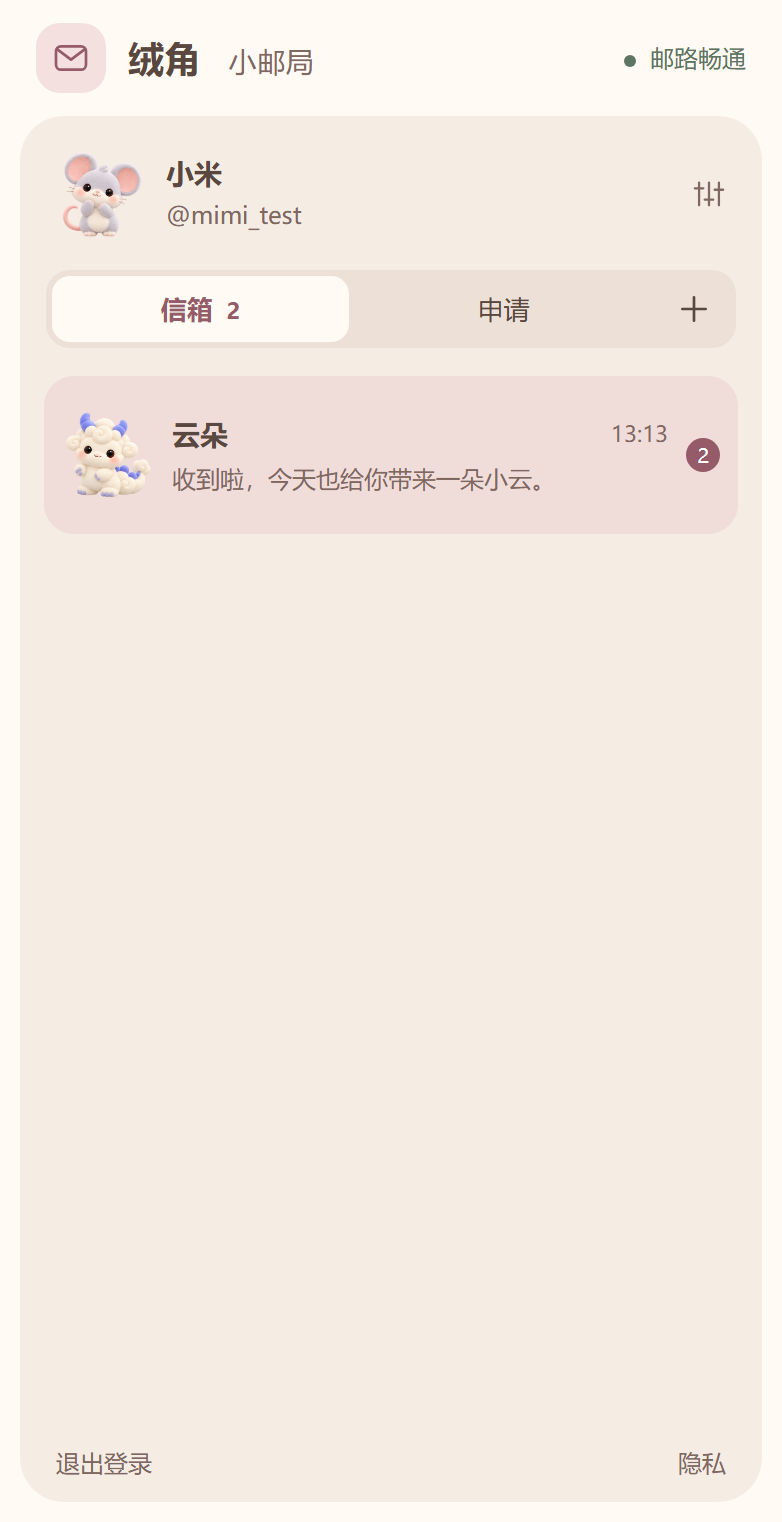
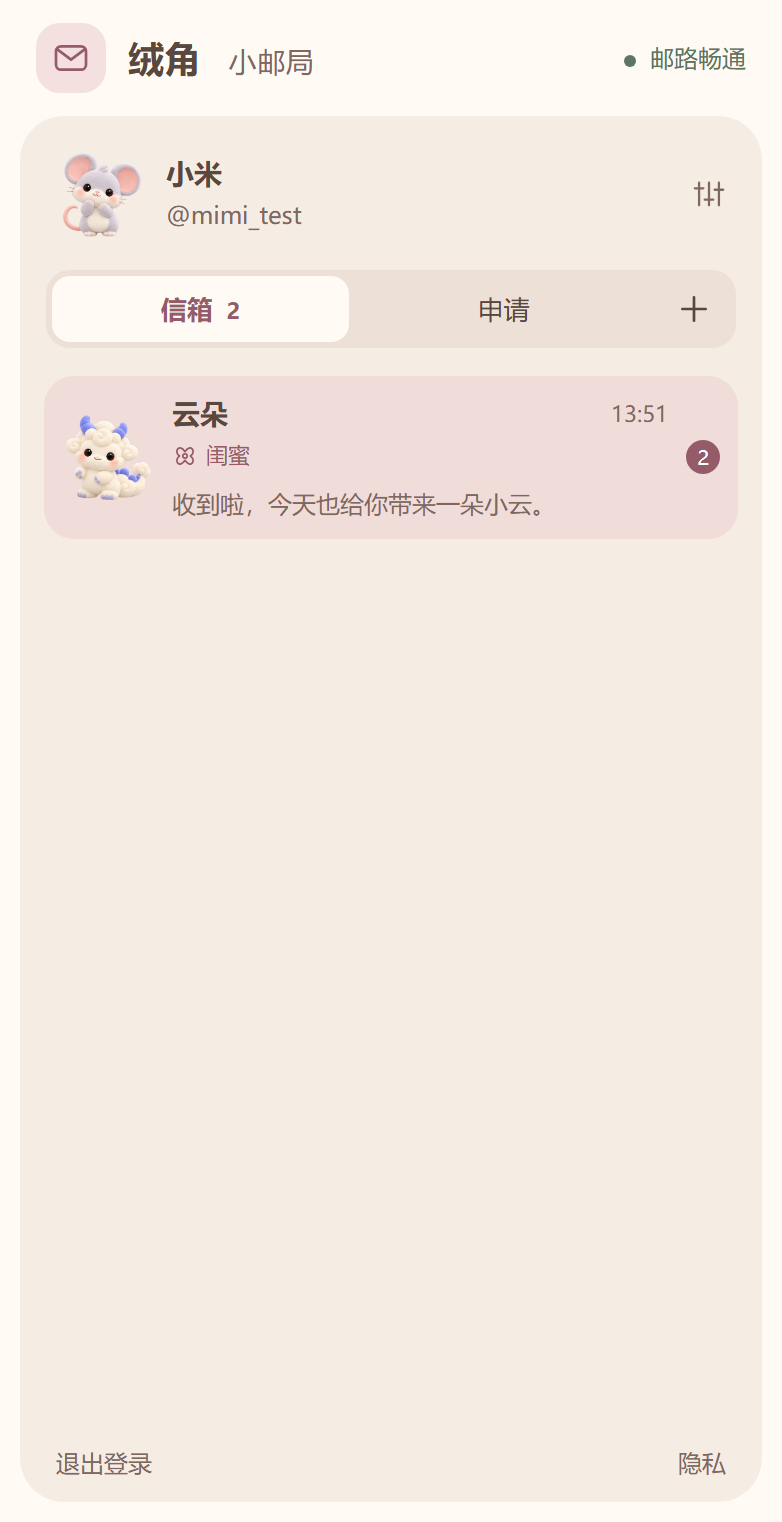
Add mutual relationship badges and companion cards

diff --git a/ui/postoffice.html b/ui/postoffice.html
@@ -17,12 +17,21 @@
  <div id="people-list" class="people-list" aria-live="polite"></div><p id="people-error" class="form-message" role="status" hidden></p>
  <div class="people-foot"><button id="logout" type="button">退出登录</button><a href="/privacy" target="_blank" rel="noopener">隐私</a></div></aside>
  <section class="letter-pane"><div id="empty-chat" class="empty-chat"><div id="empty-art"></div><h2>寄一封小小的信</h2><p>和好友聊两句，也可以送一颗心。</p><button class="soft-button" id="empty-find" type="button">找朋友</button></div>
- <div id="conversation" class="conversation" hidden><header class="chat-header"><button id="back-list" class="icon-button" type="button" aria-label="返回信箱" data-icon="back"></button><span id="peer-avatar"></span><div class="peer-title"><h2 id="peer-name"></h2><span id="peer-status"></span></div><button id="chat-more" class="icon-button" type="button" aria-label="好友操作" aria-expanded="false" data-icon="more"></button><div id="chat-menu" class="chat-menu" hidden><button id="report-peer" type="button">举报</button><button id="block-peer" type="button">屏蔽此人</button><button id="remove-peer" type="button">删除好友</button></div></header>
+ <div id="conversation" class="conversation" hidden><header class="chat-header"><button id="back-list" class="icon-button" type="button" aria-label="返回信箱" data-icon="back"></button><span id="peer-avatar"></span><div class="peer-title"><h2 id="peer-name"></h2><span id="peer-status"></span></div><button id="relationship-open" class="relationship-open" type="button" hidden>绑定关系</button><button id="chat-more" class="icon-button" type="button" aria-label="好友操作" aria-expanded="false" data-icon="more"></button><div id="chat-menu" class="chat-menu" hidden><button id="report-peer" type="button">举报</button><button id="block-peer" type="button">屏蔽此人</button><button id="remove-peer" type="button">删除好友</button></div></header>
  <div class="chat-scroll" id="chat-scroll"><button id="load-older" class="load-older" type="button" hidden>看看更早的来信</button><div id="messages" role="log" aria-live="polite" aria-label="聊天记录"></div><p id="history-empty" class="history-empty" hidden>第一句，就从“你好”开始。</p></div><button id="new-mail" class="new-mail" type="button" hidden>新来信 ↓</button>
  <form id="composer" class="composer"><div class="gesture-actions"><button type="button" data-gesture="heart"><span data-icon="heart"></span>送颗心</button><button type="button" data-gesture="pat"><span data-icon="paw"></span>摸摸头</button></div><label class="sr-only" for="message-text">写给好友的信</label><textarea id="message-text" maxlength="1000" rows="2" placeholder="写点什么…"></textarea><div class="composer-foot"><p id="chat-error" class="form-message" role="status" hidden></p><span id="message-count" hidden></span><button id="send-message" class="primary" disabled type="submit">寄出去 <span data-icon="send"></span></button></div></form>
  </div></section>
 </main>
 <dialog id="profile-dialog" class="post-dialog"><form id="profile-form"><header><h2>我的小名片</h2><button class="icon-button" type="button" data-close="profile-dialog" aria-label="关闭" data-icon="close"></button></header><p id="profile-handle" class="profile-handle"></p><label for="profile-name">昵称</label><input id="profile-name" maxlength="20" required><label>我的伙伴</label><div id="profile-pets" class="profile-pets" role="group" aria-label="选择伙伴"></div><label class="check-label"><input id="profile-discoverable" type="checkbox">允许别人通过绒角号找到我</label><p id="profile-error" role="status" class="form-message" hidden></p><button type="submit" class="primary">保存名片</button></form><details><summary>账号与隐私</summary><div id="blocked-users"></div><button id="export-data" type="button" class="text-button">下载我的数据</button><button id="delete-account" type="button" class="danger text-button">注销账号</button></details></dialog>
+<dialog id="relationship-dialog" class="post-dialog relationship-dialog" aria-labelledby="relationship-title">
+ <header><h2 id="relationship-title">我们的关系</h2><button type="button" class="icon-button" data-close="relationship-dialog" aria-label="关闭" data-icon="close"></button></header>
+ <div class="relationship-keepsake"><div id="relationship-pair" class="relationship-pair"></div><h3 id="relationship-status"></h3><p id="relationship-note"></p><small id="relationship-existing" hidden></small></div>
+ <div id="relationship-choices" class="relationship-choices" role="group" aria-label="选择关系"></div>
+ <div id="relationship-roles" class="relationship-roles" hidden><span>我是</span><div id="relationship-role-options" role="group" aria-label="你在关系中的身份"></div></div>
+ <p id="relationship-error" role="status" class="form-message" hidden></p>
+ <div class="relationship-actions"><button id="relationship-submit" class="primary" type="button">发起绑定</button><button id="relationship-decline" class="soft-button" type="button" hidden>暂不接受</button><button id="relationship-accept" class="primary" type="button" hidden>确认绑定</button><button id="relationship-cancel" class="soft-button" type="button" hidden>撤回邀请</button></div>
+ <button id="relationship-remove" class="text-button danger relationship-remove" type="button" hidden>解除绑定</button>
+</dialog>
 <dialog id="confirm-dialog" class="post-dialog compact-dialog"><form id="confirm-form"><header><h2 id="confirm-title"></h2><button type="button" class="icon-button" data-close="confirm-dialog" aria-label="关闭" data-icon="close"></button></header><p id="confirm-copy"></p><label id="confirm-password-label" hidden>登录密码<input id="confirm-password" type="password" autocomplete="current-password"></label><p id="confirm-error" role="status" class="form-message" hidden></p><div class="dialog-actions"><button type="button" data-close="confirm-dialog" class="soft-button">再想想</button><button id="confirm-submit" type="submit" class="primary">确认</button></div></form></dialog>
 <dialog id="report-dialog" class="post-dialog compact-dialog"><form id="report-form"><header><h2>告诉小邮局</h2><button type="button" class="icon-button" data-close="report-dialog" aria-label="关闭" data-icon="close"></button></header><blockquote id="report-quote"></blockquote><label for="report-reason">发生了什么</label><textarea id="report-reason" maxlength="500" rows="4" required placeholder="骚扰、诈骗或其他问题"></textarea><label class="check-label"><input id="report-block" type="checkbox" checked>同时屏蔽这位用户</label><p id="report-error" role="status" class="form-message" hidden></p><button type="submit" class="primary">提交举报</button></form></dialog>
 <p id="toast" class="toast" role="status" hidden></p>

diff --git a/ui/postoffice.css b/ui/postoffice.css
@@ -7,3 +7,9 @@
 .post-dialog{border:0;border-radius:24px;background:var(--paper);color:inherit;padding:24px;width:min(440px,calc(100vw - 32px));max-height:90dvh;box-shadow:0 15px 50px #604b4525}.post-dialog::backdrop{background:#493c3540}.post-dialog header{display:flex;align-items:center;justify-content:space-between;margin-bottom:17px}.post-dialog h2{font-size:21px}.post-dialog input:not([type=checkbox]),.post-dialog textarea{margin-bottom:16px}.profile-handle{overflow-wrap:anywhere;font-size:13px;color:var(--muted);margin:0 0 20px}.profile-pets{display:grid;grid-template-columns:repeat(6,1fr);gap:6px;margin:0 0 18px}.profile-pets button{padding:3px;border-radius:12px;background:#f3e9df;min-height:52px}.profile-pets button[aria-pressed=true]{background:#eacbce;outline:1px solid #b8858d}.post-dialog details{font-size:13px;color:var(--muted);margin-top:22px}.post-dialog summary{cursor:pointer}.text-button{padding:9px 0;color:var(--muted);font-size:12px;margin-right:18px}.danger{color:#a14c48}.blocked-row{display:flex;justify-content:space-between;gap:8px;align-items:center;padding:8px 0;font-size:12px}.blocked-row button{color:var(--rose);font-size:12px}.compact-dialog{width:min(380px,calc(100vw - 32px))}.compact-dialog p{font-size:13px;color:var(--muted);line-height:1.7;margin-bottom:15px}.dialog-actions{display:flex;justify-content:flex-end;gap:8px;margin-top:24px}#report-quote{font-size:12px;line-height:1.6;background:#f1e4d9;padding:12px;margin:0 0 18px;border-radius:10px;max-height:90px;overflow:auto;white-space:pre-wrap;overflow-wrap:anywhere}.toast{position:fixed;z-index:50;bottom:24px;left:50%;transform:translateX(-50%);padding:11px 20px;border-radius:14px;background:#665048;color:#fffaf4;font-size:13px;box-shadow:0 5px 18px #59484018;max-width:90vw}.legal{max-width:760px;margin:28px auto 70px;padding:0 24px;font-size:14px;line-height:1.9}.legal h2{margin:28px 0 12px;font-size:20px}.legal p{margin:12px 0}
 @keyframes small-heart{0%,100%{transform:scale(1)}40%{transform:scale(1.12)}}@media(prefers-reduced-motion:reduce){*,*::before,*::after{animation:none!important;transition:none!important}}
 @media(max-width:750px){.post-header{height:58px;padding:0 18px}.auth-main{min-height:calc(100dvh - 58px);grid-template-columns:1fr;padding:20px 28px 35px;gap:16px;align-content:center}.auth-art{display:flex;min-height:0;height:112px;background:none;border-radius:0}.auth-art .postman-art{height:112px}.auth-art .pet-avatar{width:112px;height:112px}.auth-hello{display:none}.auth-panel{max-width:380px}.postoffice{height:calc(100dvh - 58px);grid-template-columns:1fr;padding:0 10px 10px;gap:0}.people-pane{width:100%}.letter-pane{display:none}.postoffice[data-conversation=true] .people-pane{display:none}.postoffice[data-conversation=true] .letter-pane{display:flex}#back-list{display:grid}.chat-header{padding:12px 14px;min-height:70px}.chat-scroll{padding:16px 12px}.composer{padding:10px 13px 12px}.message{max-width:94%}.post-header h1{font-size:18px}.post-header h1 span{font-size:14px}.person-row{min-height:79px}.profile-pets{grid-template-columns:repeat(6,1fr)}}
+
+.relation-badge{display:inline-flex;align-items:center;gap:4px;color:var(--rose);font-size:11px;line-height:1.5}.relation-badge .post-icon{width:13px;height:13px}.person-summary>.relation-badge{margin-top:4px}.relation-badge.pending{color:var(--muted)}.relationship-open{display:inline-flex;align-items:center;gap:5px;flex:none;border:1px solid #e8cdd0;background:#f5e3e3;padding:7px 10px;border-radius:20px;color:#87515e;font-size:12px}.relationship-open>.post-icon{width:15px;height:15px}.relationship-open .relation-badge{font-size:12px}.relationship-open:hover{background:#efd5d8}.relationship-open.has-invitation{border-color:#b37782}.relationship-open.has-invitation::after{content:"";width:5px;height:5px;border-radius:50%;background:var(--rose)}
+.relationship-dialog{box-shadow:0 5px 24px rgba(96,75,69,.07);width:min(424px,calc(100vw - 28px));padding:22px}.relationship-dialog header{margin-bottom:14px}.relationship-keepsake{background:#f6e7e3;border-radius:20px;padding:18px 10px 16px;text-align:center}.relationship-pair{display:flex;align-items:center;justify-content:center;gap:15px}.relationship-person{display:flex;flex-direction:column;align-items:center;min-width:0;width:112px}.relationship-person b{font-size:13px;font-weight:600;max-width:100%;overflow:hidden;text-overflow:ellipsis;white-space:nowrap;margin-top:3px}.relationship-person small{font-size:12px;margin-top:2px}.relationship-seal{width:36px;height:36px;flex:none;display:grid;place-items:center;color:var(--rose);border:1px solid #dcb7ba;border-radius:50%}.relationship-seal .post-icon{width:19px;height:19px}.relationship-keepsake h3{font-size:17px;font-weight:600;line-height:1.5;margin:17px 0 5px;overflow-wrap:anywhere}.relationship-keepsake p{font-size:12px;color:#7d655e;line-height:1.6}.relationship-choices{display:grid;grid-template-columns:repeat(4,minmax(0,1fr));gap:7px;margin:18px 0}.relationship-choice{display:flex;flex-direction:column;align-items:center;gap:8px;padding:11px 2px;border:1px solid var(--line);border-radius:13px;font-size:13px;min-height:70px}.relationship-choice .post-icon{width:20px;height:20px;color:#9a7774}.relationship-choice[aria-pressed=true]{background:#efd8da;border-color:#ad7380;color:#75434f}.relationship-choice[aria-pressed=true] .post-icon{color:#87515e}.relationship-choice:hover{border-color:#b7888e}.relationship-roles{display:flex;align-items:center;gap:12px;font-size:13px;margin:12px 0 16px}.relationship-role{padding:7px 15px;border:1px solid var(--line);border-radius:18px;font-size:13px}.relationship-role[aria-pressed=true]{border-color:#ad7380;background:#efd8da;color:#75434f}#relationship-role-options{display:flex;gap:8px}.relationship-actions{display:flex;justify-content:center;gap:9px;margin-top:18px}.relationship-actions .primary{flex:1}.relationship-actions .soft-button{flex:1}.relationship-remove{display:block;margin:15px auto 0;padding:4px 8px;font-size:12px}
+@media(max-width:750px){.chat-header{gap:7px;padding-left:9px;padding-right:9px}.relationship-open{padding:6px 8px}.peer-title>span{max-width:100%;overflow:hidden;text-overflow:ellipsis;white-space:nowrap}.relationship-dialog{padding:18px}.relationship-pair{gap:9px}}
+
+.relationship-request .request-person>span{min-width:0}.relationship-request .request-person b{display:block;overflow:hidden;text-overflow:ellipsis;white-space:nowrap}

diff --git a/docs/social-deployment.md b/docs/social-deployment.md
@@ -18,6 +18,7 @@ node server/setup.mjs
 2. 打开 `.local/postoffice/outbox/` 中对应邮箱的 JSON，复制 `url` 到浏览器，点击验证邮箱。
 3. 登录；第二个测试账号可用另一个浏览器或独立浏览器配置。
 4. 搜索对方的完整绒角号，对方同意后即可聊天、送心心和摸头。
+5. 在聊天顶部点“绑定关系”，选择称呼；父子、母子等需选择自己的身份。对方在“申请”中确认后，双方会显示关系徽章。
 
 本地模式不会投递真实邮件，默认仅监听本机环回地址。不要把开发模式映射到公网。
 
@@ -93,7 +94,7 @@ node setup.mjs --postoffice https://你的域名
 
 ## 更新、备份与运营
 
-更新前先备份，再拉取源码和重建容器：
+更新前先备份，再拉取源码和重建容器。0.8.0 会自动增加关系与邀请表，保留原有账号、好友和聊天；更新后须重启服务才能启用关系功能：
 
 ```bash
 docker compose --env-file deploy/.env -f deploy/compose.yml exec postoffice node server/admin.mjs backup
@@ -124,6 +125,7 @@ docker compose --env-file deploy/.env -f deploy/compose.yml exec postoffice node
 
 - 必须验证邮箱后登录；搜索按完整绒角号匹配，不支持邮箱搜索或全站用户目录。
 - 双向同意后才可聊天；支持文字（每条最多 1000 字符）、心心和摸头。
+- 支持 8 种双方确认的关系标签，每对好友同时一种；变更须再次确认。家庭角色互相对应，标签只对双方展示。邀请 7 天有效，每小时最多发起 12 次；可拒绝、撤回或解除。删除好友、屏蔽、注销会清除绑定及邀请。
 - 每人最多 200 位好友；互动有冷却，注册、登录、搜索、申请与发信均有限流。
 - 聊天在服务端存储，尚未提供端到端加密。默认保留 180 天，可配置为 7–3650 天。
 - 用户可关闭被搜索、屏蔽好友、举报、导出数据和注销。注销会删除双方与你相关的聊天；举报按说明保留。
@@ -140,6 +142,6 @@ npm run social:test
 npm run test:social-desktop
 ```
 
-服务端测试覆盖邮箱验证、好友权限、真实 HTTP / SSE、重复发送去重、屏蔽举报、导出、重设密码与注销。桌面测试使用临时服务和两个独立测试账号，检查真实渲染器、预加载桥、后台收信及窄窗口，并生成 `design/current/postoffice-*.png`。
+服务端测试覆盖关系确认与身份方向、拒绝与撤回、过期、删除清理、旧库迁移、邮箱验证、好友权限、真实 HTTP / SSE、重复发送去重、屏蔽举报、导出、重设密码与注销。桌面测试使用临时服务和两个独立测试账号，检查真实渲染器、预加载桥、后台收信及窄窗口，并生成 `design/current/postoffice-*.png`。
 
 SMTP、DNS 和公网 TLS 需要真实部署后单独验收；本地测试邮件不会离开电脑。

diff --git a/README.md b/README.md
@@ -162,6 +162,7 @@ node setup.mjs
 | --- | --- |
 | 注册 / 登录 | 邮箱验证后登录，可重发验证邮件与找回密码 |
 | 搜索与加好友 | 点“＋”，输入完整绒角号；在“申请”中同意 |
+| 关系绑定 | 聊天顶部“绑定关系”，选择称呼并邀请；对方确认后显示专属徽章 |
 | 文字私聊 | 点好友进入聊天；Enter 发送，Shift+Enter 换行 |
 | 小互动 | 聊天框上方“送颗心 / 摸摸头”，对方收到互动记录 |
 | 桌面收信 | 小邮局收起后继续连接；桌宠提示来信，专注 / 会议 / 休息时安静更新未读 |
@@ -177,6 +178,19 @@ node setup.mjs
 </details>
 
 以上截图来自真实本地服务和两个测试账号，不含真实用户的私聊。小邮局账号独立于飞书 / Lark，不需要企业审批，也不读取企业联系人。
+
+### 给你们一个特别的称呼
+
+<img src="design/current/postoffice-relationship-choose.png" alt="八种关系选择，双方毛绒伙伴相伴" width="760">
+
+支持 **闺蜜、同事、情侣、哥们儿、父子、母子、父女、母女**。打开好友聊天，点顶部“绑定关系”发送邀请；对方在“申请”或聊天顶部确认。家庭关系还需要选择自己的身份，双方看到的爸爸、妈妈、儿子、女儿对应显示。
+
+- 绑定后，好友列表与聊天顶部显示关系徽章；点开可看双方宠物和绑定日期。
+- 每对好友同时保留一种关系；变更需再次确认，确认前原关系保持不变。
+- 邀请 7 天有效，可以婉拒或撤回。任一方可解除绑定，聊天仍保留。
+- 关系仅对双方可见，不展示在公开搜索中。删除好友、屏蔽或注销会清除绑定。
+
+<img src="design/current/postoffice-relationship-invite.png" alt="接收关系邀请，可确认或拒绝；旧关系在确认前保留" width="760">
 
 **只想使用：** 取得部署方的邮局地址后，在小邮局连接页填写，或运行一次：
 

diff --git a/PRIVACY.md b/PRIVACY.md
@@ -18,6 +18,7 @@
 - 服务端保存邮箱、绒角号、昵称、头像、加盐密码派生值、会话、好友关系、聊天与互动、举报。验证和重设邮件通过部署方配置的 SMTP 发送。
 - 邮箱不出现在用户搜索或好友名片中。只支持按完整绒角号搜索已验证且允许被找到的账号；双方同意后才能私聊。
 - 聊天保存在服务端，尚未提供端到端加密。默认聊天及举报保留 180 天，部署方可配置；备份周期由运营方管理。
+- 关系绑定须双方确认，关系标签、家庭身份与绑定日期只向这两位好友展示；邀请有效期 7 天。任一方可解除，删除好友、屏蔽或注销会清除绑定和邀请。
 - 用户可关闭被搜索、屏蔽、举报、下载个人数据和注销；注销会删除账号与双方相关聊天，举报按保留期处理。
 - 桌面将服务器地址保存在 `.local/postoffice.json`；登录 Cookie 在独立 Electron 会话分区内。远程邮局窗口与宠物本地文件权限隔离。
 - 传到桌宠的收信信息仅包含未读数、好友昵称和互动类型，不包含聊天正文。专注、会议和休息模式不触发互动动作。

diff --git a/CHANGELOG.md b/CHANGELOG.md
@@ -1,5 +1,13 @@
 # Changelog
 
+## 0.8.0
+
+- 新增闺蜜、同事、情侣、哥们儿及四种亲子关系，邀请经对方确认后绑定。
+- 好友列表和聊天头部显示关系徽章；专属卡片展示双方伙伴、身份与绑定日期。
+- 支持拒绝、撤回、变更和解除；变更确认前保留原关系，邀请 7 天过期。
+- 关系只对双方可见；屏蔽、删除好友和注销自动清除绑定，支持个人数据导出。
+- 数据库从 v1 增量升级到 v2，保留已有数据；补充权限、迁移、双账号桌面与窄窗口验收。
+
 ## 0.7.0
 
 - 新增可自行部署的小邮局：公开注册、邮箱验证、找回密码和独立账号。
